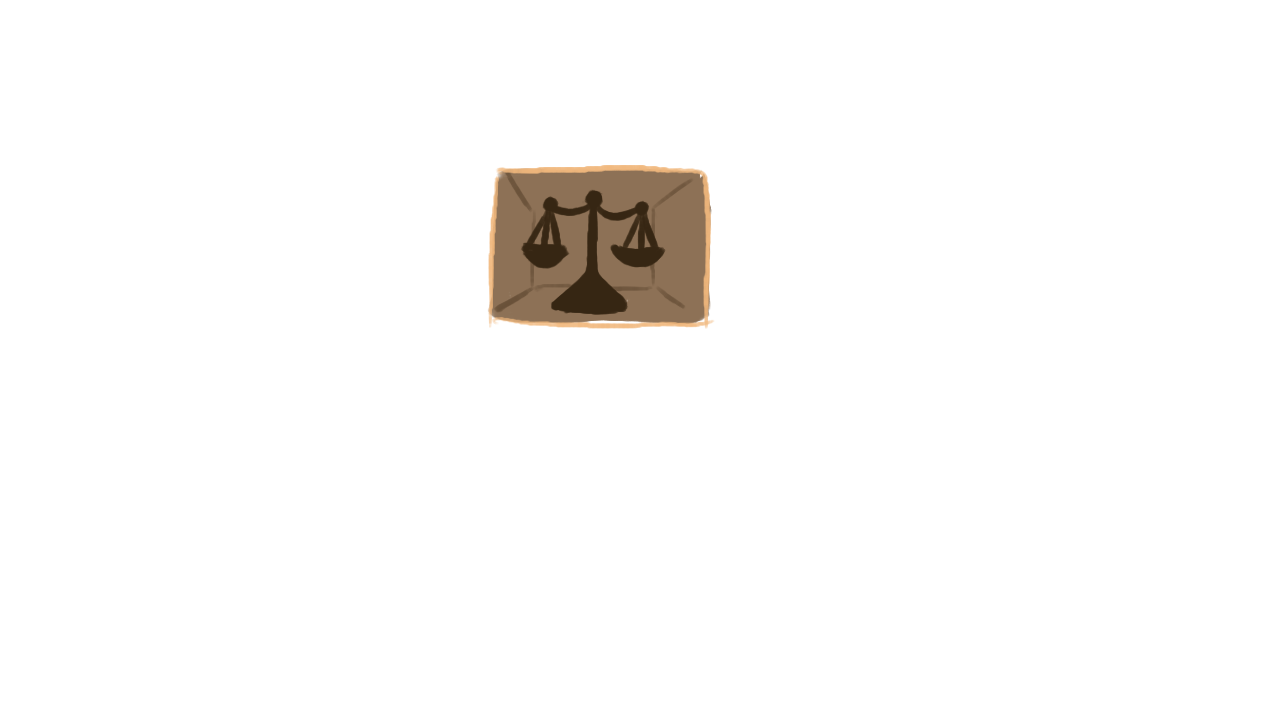
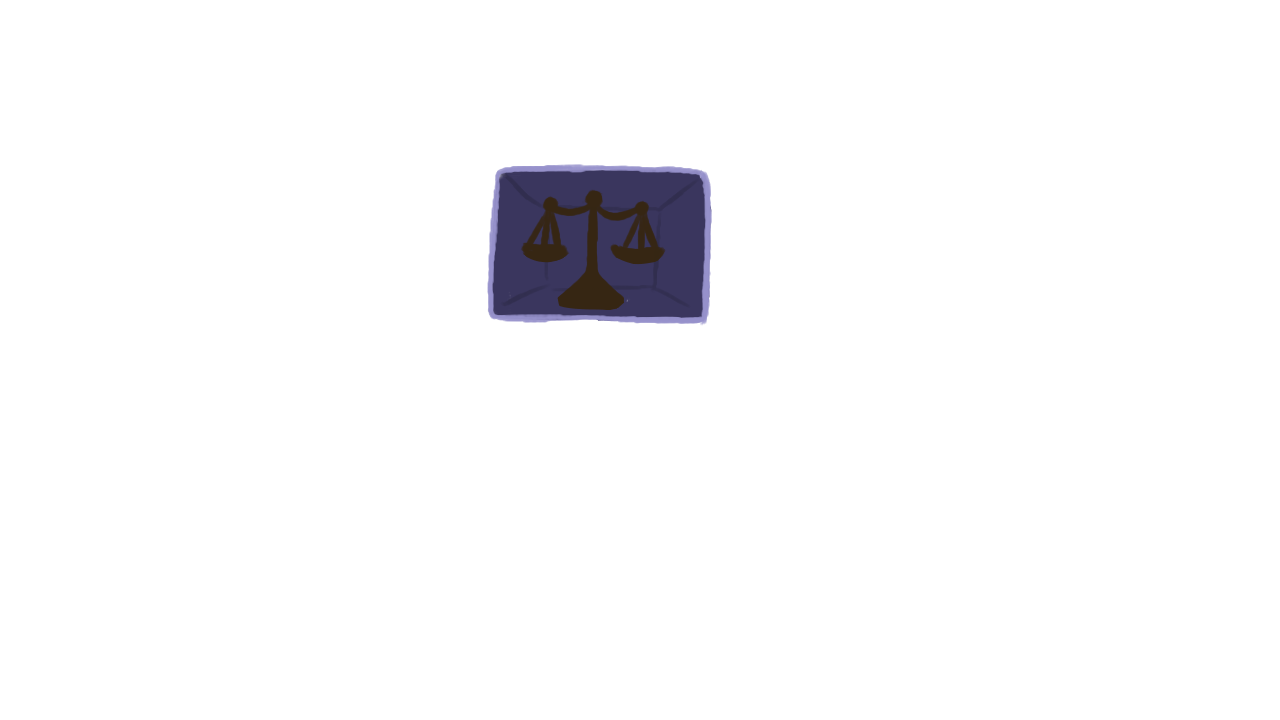
scale scene set up

Changed region(s): [[0.375, 0.2139, 0.5625, 0.4583]]

diff --git a/src/scenes/Lookout/Scales.js b/src/scenes/Lookout/Scales.js
@@ -1,0 +1,127 @@
+class Scales extends Phaser.Scene {
+    constructor() {
+        super("lookoutScales");
+    }
+
+    create() {
+        /////////////////////////////////////////////////////////////////////////////////////////////////////////
+        // place tile sprite
+        this.scalesBG = this.add.tileSprite(0, 0, 1280, 720, 'scales_hole').setOrigin(0, 0); 
+
+        /////////////////////////////////////////////////////////////////////////////////////////////////////////
+        // sfx
+        this.itemTake = this.sound.add('itemtake', {volume: 0.5});
+
+        /////////////////////////////////////////////////////////////////////////////////////////////////////////
+        // define keys
+        keySPACE = this.input.keyboard.addKey(Phaser.Input.Keyboard.KeyCodes.SPACE);
+        keyW = this.input.keyboard.addKey(Phaser.Input.Keyboard.KeyCodes.W);
+        keyA = this.input.keyboard.addKey(Phaser.Input.Keyboard.KeyCodes.A);
+        keyS = this.input.keyboard.addKey(Phaser.Input.Keyboard.KeyCodes.S);
+        keyD = this.input.keyboard.addKey(Phaser.Input.Keyboard.KeyCodes.D);
+        
+        /////////////////////////////////////////////////////////////////////////////////////////////////////////
+        // objects
+        // scales even
+        this.even = this.add.image(640, 350, 'even');
+        this.even.setDisplaySize(1280, 720);
+        this.even.setVisible(true);
+        // scales uneven
+        this.even = this.add.image(640, 350, 'even');
+        this.even.setDisplaySize(1280, 720);
+        this.even.setVisible(false);
+
+        /*
+        this.windowHit = this.add.sprite(625, 260, 'hitbox');
+        this.windowHit.setDisplaySize(475, 475);
+        this.windowHit.setInteractive({
+            useHandCursor: true
+        });
+        this.windowHit.interText = this.add.text(350, 550, 'The window is dirty.');
+        this.windowHit.interText.setFontSize(50);
+        this.windowHit.interText.setVisible(false);
+        this.windowHit.setVisible(true);
+        */
+
+        /////////////////////////////////////////////////////////////////////////////////////////////////////////
+        // inventory box set up
+        this.invent = this.add.sprite(60,60, 'inventory');
+        this.invent.setDisplaySize(100, 100);
+        this.invent.setInteractive({
+            useHandCursor: true
+        });
+
+        prevScene = this.scene.key;
+
+        /////////////////////////////////////////////////////////////////////////////////////////////////////////
+        // close
+        this.closeInven = this.add.sprite(1220, 50, 'x');
+        this.closeInven.setDisplaySize(50, 50);
+        this.closeInven.setVisible(true);
+        this.closeInven.setInteractive({
+            useHandCursor: true
+        });
+
+        /////////////////////////////////////////////////////////////////////////////////////////////////////////
+        // god forsaken variables
+        this.textTimer = 0;
+
+        /////////////////////////////////////////////////////////////////////////////////////////////////////////
+        // borders
+        this.add.rectangle(0, 0, 10, game.config.height, 0x2c2b45).setOrigin(0, 0);
+        this.add.rectangle(0, game.config.height - 10, game.config.width, 10, 0x2c2b45).setOrigin(0, 0);
+        this.add.rectangle(0, 0, game.config.width, 10, 0x2c2b45).setOrigin(0, 0);
+        this.add.rectangle(game.config.width - 10, 0, 10, game.config.height, 0x2c2b45).setOrigin(0, 0);
+    }
+    
+    update() {
+        /////////////////////////////////////////////////////////////////////////////////////////////////////////
+        // clicks inventory box: puts this scene to sleep (no updates), switches to cards
+        this.invent.on('pointerdown', (pointer) => {
+            this.scene.switch("cardBox");
+        });
+
+        /////////////////////////////////////////////////////////////////////////////////////////////////////////
+        // go back to lookOut
+        this.closeInven.on('pointerdown', (pointer) => {
+            this.scene.stop("lookoutScales");
+            this.scene.wake("lookoutWest");
+        });
+
+        /////////////////////////////////////////////////////////////////////////////////////////////////////////
+        // 
+        
+        // text timers
+        if(this.textTimer > 0 && this.textTimer < 150) {
+            this.textTimer += 1;
+        } 
+        else if(this.textTimer >= 150){
+            // hide text
+            this.windowHit.interText.setVisible(false);
+            this.clean.interText.setVisible(false);
+            this.rock.interText.setVisible(false);
+            this.textTimer = 0;
+        }
+
+        /////////////////////////////////////////////////////////////////////////////////////////////////////////
+        // end states
+        /*
+        if (rag == 1 && windowClean == 1 && rock == 0) {
+            this.rock.setVisible(true);
+            this.clean.setVisible(true);
+        }
+        
+        if (windowClean == 1 & rock == 1) {
+            this.rock.setVisible(false);
+            this.clean.setVisible(true);
+        }
+        */
+
+        /////////////////////////////////////////////////////////////////////////////////////////////////////////
+        // scene change on keypress
+        if(Phaser.Input.Keyboard.JustDown(keyS)){
+            this.scene.stop("lookoutScales");
+            this.scene.wake("lookoutWest");
+        };
+    }
+}

diff --git a/src/scenes/Lookout/LookoutWest.js b/src/scenes/Lookout/LookoutWest.js
@@ -11,6 +11,12 @@ class LookoutWest extends Phaser.Scene {
         this.load.image('scales', './assets/puzzle4/overlays/scales.png');
         this.load.image('westLight', './assets/puzzle4/overlays/blank_wall_light.png');
 
+
+        // images
+        this.load.image('scales_hole', './assets/puzzle4/scalesWindow/scalesHole.png');
+        this.load.image('even', './assets/puzzle4/scalesWindow/scales_even.png');
+        this.load.image('uneven', './assets/puzzle4/scalesWindow/scales_uneven.png');
+
         // hitbox
         this.load.image('hitbox', './assets/HitBox2.png');
 
@@ -70,11 +76,6 @@ class LookoutWest extends Phaser.Scene {
             useHandCursor: true
         });
 
-        // window light
-        this.light = this.add.image(640, 360, 'westLight');
-        this.light.setDisplaySize(1280, 720);
-        this.light.setVisible(false);
-
         // scales
         this.scales = this.add.image(640, 350, 'scales');
         this.scales.setDisplaySize(1280, 720);
@@ -87,6 +88,12 @@ class LookoutWest extends Phaser.Scene {
         this.outline.interText = this.add.text(200, 550, 'You opened a hatch in the wall.');
         this.outline.interText.setFontSize(50);
         this.outline.interText.setVisible(false);
+
+        // window light
+        this.light = this.add.image(640, 360, 'westLight');
+        this.light.setDisplaySize(1280, 720);
+        this.light.alpha = 0.5;
+        this.light.setVisible(false);
 
         /////////////////////////////////////////////////////////////////////////////////////////////////////////
         // hot bar 
@@ -115,10 +122,10 @@ class LookoutWest extends Phaser.Scene {
 
         /////////////////////////////////////////////////////////////////////////////////////////////////////////
         // borders
-        this.add.rectangle(0, 0, 10, game.config.height, 0x8a8a8a).setOrigin(0, 0);
-        this.add.rectangle(0, game.config.height - 10, game.config.width, 10, 0x8a8a8a).setOrigin(0, 0);
-        this.add.rectangle(0, 0, game.config.width, 10, 0x8a8a8a).setOrigin(0, 0);
-        this.add.rectangle(game.config.width - 10, 0, 10, game.config.height, 0x8a8a8a).setOrigin(0, 0);
+        this.add.rectangle(0, 0, 10, game.config.height, 0x2c2b45).setOrigin(0, 0);
+        this.add.rectangle(0, game.config.height - 10, game.config.width, 10, 0x2c2b45).setOrigin(0, 0);
+        this.add.rectangle(0, 0, game.config.width, 10, 0x2c2b45).setOrigin(0, 0);
+        this.add.rectangle(game.config.width - 10, 0, 10, game.config.height, 0x2c2b45).setOrigin(0, 0);
     }
     
     update() {
@@ -150,8 +157,9 @@ class LookoutWest extends Phaser.Scene {
                 this.textTimer = 1;
                 hatch = 1;
             }
-            if(hatch == 1){
+            if(hatch == 1 && this.textTimer == 0){
                 // open scales image
+                this.scene.switch("lookoutScales");
             }
         });
 

diff --git a/src/scenes/Lookout/LookoutSouth.js b/src/scenes/Lookout/LookoutSouth.js
@@ -98,11 +98,11 @@ class LookoutSouth extends Phaser.Scene {
 
         /////////////////////////////////////////////////////////////////////////////////////////////////////////
         // items
-        this.ragHot= this.add.sprite(460, 660, 'ragHot');
+        this.ragHot= this.add.image(460, 660, 'ragHot');
         this.ragHot.setDisplaySize(50, 50);
         this.ragHot.setVisible(false);
 
-        this.ropeHot = this.add.sprite(560, 660, 'ropeHot');
+        this.ropeHot = this.add.image(560, 660, 'ropeHot');
         this.ropeHot.setDisplaySize(50, 50);
         this.ropeHot.setVisible(false);
 
@@ -116,10 +116,10 @@ class LookoutSouth extends Phaser.Scene {
 
         /////////////////////////////////////////////////////////////////////////////////////////////////////////
         // borders
-        this.add.rectangle(0, 0, 10, game.config.height, 0x8a8a8a).setOrigin(0, 0);
-        this.add.rectangle(0, game.config.height - 10, game.config.width, 10, 0x8a8a8a).setOrigin(0, 0);
-        this.add.rectangle(0, 0, game.config.width, 10, 0x8a8a8a).setOrigin(0, 0);
-        this.add.rectangle(game.config.width - 10, 0, 10, game.config.height, 0x8a8a8a).setOrigin(0, 0);
+        this.add.rectangle(0, 0, 10, game.config.height, 0x2c2b45).setOrigin(0, 0);
+        this.add.rectangle(0, game.config.height - 10, game.config.width, 10, 0x2c2b45).setOrigin(0, 0);
+        this.add.rectangle(0, 0, game.config.width, 10, 0x2c2b45).setOrigin(0, 0);
+        this.add.rectangle(game.config.width - 10, 0, 10, game.config.height, 0x2c2b45).setOrigin(0, 0);
     }
     
     update() {

diff --git a/src/scenes/Lookout/LookoutNorth.js b/src/scenes/Lookout/LookoutNorth.js
@@ -24,7 +24,6 @@ class LookoutNorth extends Phaser.Scene {
     }
 
     create() {
-
         /////////////////////////////////////////////////////////////////////////////////////////////////////////
         // place tile sprite
         this.cellarnorth = this.add.tileSprite(0, 0, 1280, 720, 'lookoutNorth').setOrigin(0, 0); 
@@ -366,10 +365,10 @@ class LookoutNorth extends Phaser.Scene {
 
         /////////////////////////////////////////////////////////////////////////////////////////////////////////
         // borders
-        this.add.rectangle(0, 0, 10, game.config.height, 0x8a8a8a).setOrigin(0, 0);
-        this.add.rectangle(0, game.config.height - 10, game.config.width, 10, 0x8a8a8a).setOrigin(0, 0);
-        this.add.rectangle(0, 0, game.config.width, 10, 0x8a8a8a).setOrigin(0, 0);
-        this.add.rectangle(game.config.width - 10, 0, 10, game.config.height, 0x8a8a8a).setOrigin(0, 0);
+        this.add.rectangle(0, 0, 10, game.config.height, 0x2c2b45).setOrigin(0, 0);
+        this.add.rectangle(0, game.config.height - 10, game.config.width, 10, 0x2c2b45).setOrigin(0, 0);
+        this.add.rectangle(0, 0, game.config.width, 10, 0x2c2b45).setOrigin(0, 0);
+        this.add.rectangle(game.config.width - 10, 0, 10, game.config.height, 0x2c2b45).setOrigin(0, 0);
     }
     
     update() {

diff --git a/src/scenes/Lookout/LookoutEast.js b/src/scenes/Lookout/LookoutEast.js
@@ -99,10 +99,10 @@ class LookoutEast extends Phaser.Scene {
 
         /////////////////////////////////////////////////////////////////////////////////////////////////////////
         // borders
-        this.add.rectangle(0, 0, 10, game.config.height, 0x8a8a8a).setOrigin(0, 0);
-        this.add.rectangle(0, game.config.height - 10, game.config.width, 10, 0x8a8a8a).setOrigin(0, 0);
-        this.add.rectangle(0, 0, game.config.width, 10, 0x8a8a8a).setOrigin(0, 0);
-        this.add.rectangle(game.config.width - 10, 0, 10, game.config.height, 0x8a8a8a).setOrigin(0, 0);
+        this.add.rectangle(0, 0, 10, game.config.height, 0x2c2b45).setOrigin(0, 0);
+        this.add.rectangle(0, game.config.height - 10, game.config.width, 10, 0x2c2b45).setOrigin(0, 0);
+        this.add.rectangle(0, 0, game.config.width, 10, 0x2c2b45).setOrigin(0, 0);
+        this.add.rectangle(game.config.width - 10, 0, 10, game.config.height, 0x2c2b45).setOrigin(0, 0);
     }
     
     update() {

diff --git a/src/main.js b/src/main.js
@@ -2,7 +2,7 @@ let config = {
     type: Phaser.CANVAS,
     width: 1280,
     height: 720,
-    scene: [ Menu, Instruction, Spread1, Inventory, IslandNorth, IslandWest, IslandEast, IslandSouth, Spread2, CellarNorth, CellarWest, CellarEast, CellarSouth, Spread3, MainNorth, MainWest, MainEast, MainSouth, Spread4, LookoutNorth, LookoutWest, LookoutEast, LookoutSouth, Spread5, Inventory7, RitualNorth, RitualWest, RitualEast, RitualSouth],
+    scene: [ Menu, Instruction, Spread1, Inventory, IslandNorth, IslandWest, IslandEast, IslandSouth, Spread2, CellarNorth, CellarWest, CellarEast, CellarSouth, Spread3, MainNorth, MainWest, MainEast, MainSouth, Spread4, LookoutNorth, LookoutWest, Scales, LookoutEast, LookoutSouth, Spread5, Inventory7, RitualNorth, RitualWest, RitualEast, RitualSouth],
   }
 
 let game = new Phaser.Game(config);

diff --git a/index.html b/index.html
@@ -39,6 +39,7 @@
     <script src = "./src/scenes/Spreads/Spread4.js"></script>
     <script src = "./src/scenes/Lookout/LookoutNorth.js"></script>
     <script src = "./src/scenes/Lookout/LookoutWest.js"></script>
+    <script src = "./src/scenes/Lookout/Scales.js"></script>
     <script src = "./src/scenes/Lookout/LookoutEast.js"></script>
     <script src = "./src/scenes/Lookout/LookoutSouth.js"></script>
 

diff --git a/src/scenes/Cellar/CellarNorth.js b/src/scenes/Cellar/CellarNorth.js
@@ -114,7 +114,7 @@ class CellarNorth extends Phaser.Scene {
         }
 
         // delete this
-        //unlocked = 1;
+        unlocked = 1;
         if(unlocked == 1){
             if(Phaser.Input.Keyboard.JustDown(keySPACE)){
                 this.sound.get('cellar_music').stop();

diff --git a/src/scenes/Cellar/CellarSouth.js b/src/scenes/Cellar/CellarSouth.js
@@ -229,7 +229,7 @@ class CellarSouth extends Phaser.Scene {
         }
 
         // end states
-        //unlocked = 1;
+        unlocked = 1;
         if(unlocked == 1){
             this.door.setVisible(true);
             this.door.interText.setVisible(true); 
